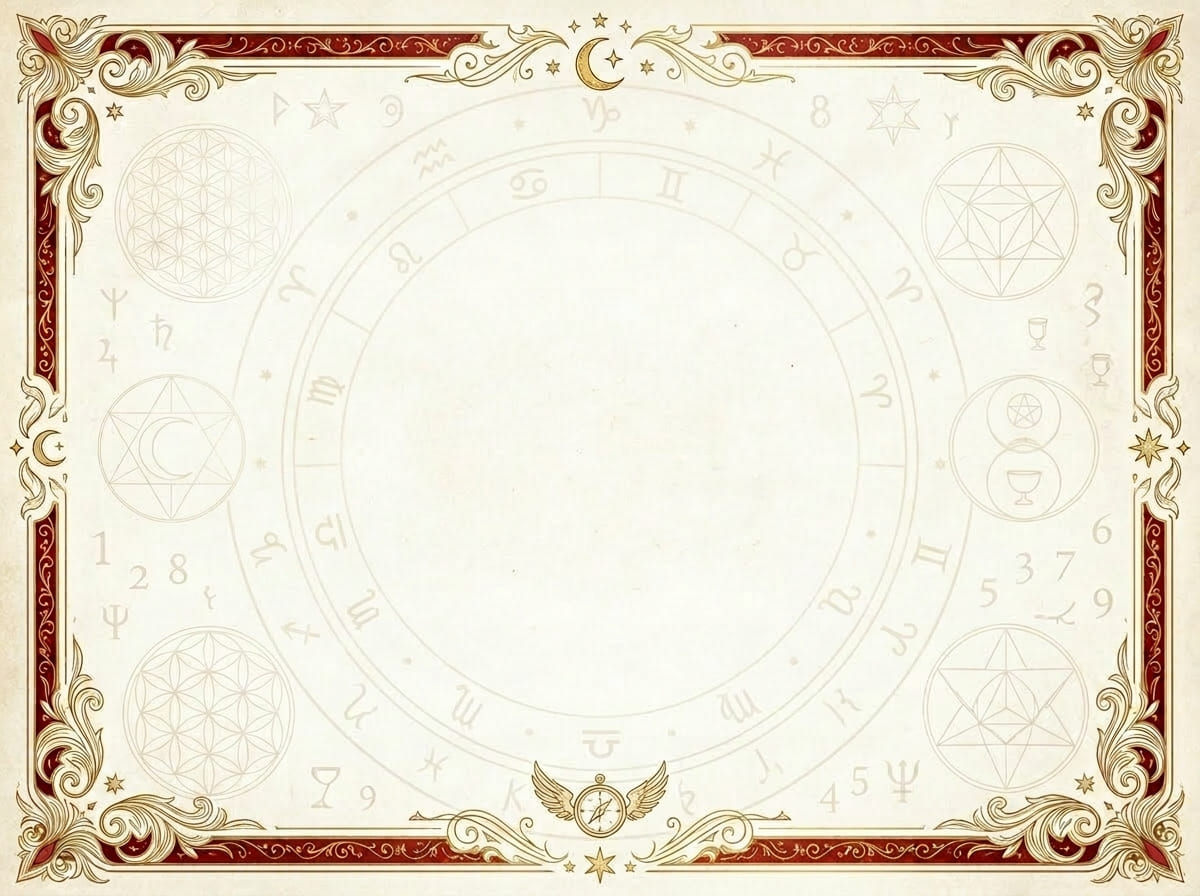
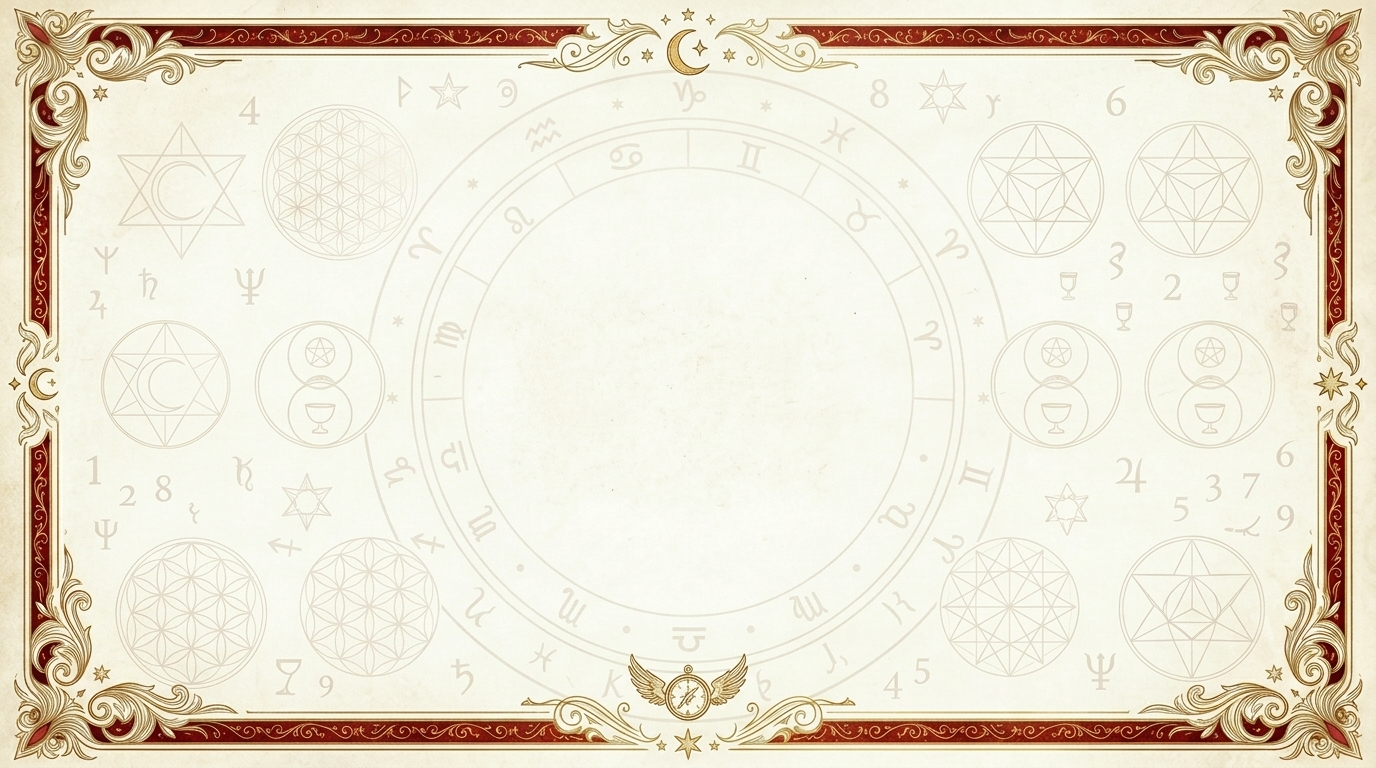
feat(cabinet): update default certificate background image and adjust spacing and labels

diff --git a/src/components/CertificateModal.tsx b/src/components/CertificateModal.tsx
@@ -208,7 +208,7 @@ export function CertificateModal({
             </svg>
           </div>
           <p className={styles.schoolName}>
-            Международная Школа Духовного Развития и Нумерологии
+            Школа Духовного развития Ольги Хавич
           </p>
         </div>
 
@@ -241,30 +241,7 @@ export function CertificateModal({
           </div>
 
           <div className={styles.footerRight}>
-            <span className={styles.infoLabel}>Эксперт</span>
-            <div className={styles.signatureContainer}>
-              {/* Векторная подпись Ольги Хавич */}
-              <svg width="150" height="60" viewBox="0 0 150 60" className={styles.signatureImage}>
-                <path
-                  d="M 10 40 C 30 10, 40 10, 50 30 C 60 50, 70 50, 80 20 C 90 5, 100 5, 110 35 C 115 45, 120 45, 130 30 C 135 20, 140 20, 145 35 M 30 35 L 120 35"
-                  fill="none"
-                  stroke="#1c2d5a"
-                  strokeWidth="2.5"
-                  strokeLinecap="round"
-                  strokeLinejoin="round"
-                  opacity="0.85"
-                />
-                <path
-                  d="M 40 20 C 50 0, 70 0, 60 30 C 50 50, 90 50, 100 15"
-                  fill="none"
-                  stroke="#d4af37"
-                  strokeWidth="1.5"
-                  strokeLinecap="round"
-                  opacity="0.75"
-                />
-              </svg>
-              <div className={styles.signatureLine} />
-            </div>
+            <span className={styles.infoLabel}>Преподаватель</span>
             <span className={styles.infoValue}>Ольга Хавич</span>
           </div>
         </div>

diff --git a/src/components/CertificateModal.module.css b/src/components/CertificateModal.module.css
@@ -283,7 +283,7 @@
   justify-content: space-between;
   align-items: flex-end;
   margin-bottom: 15px;
-  padding: 0 20px;
+  padding: 20px 95px;
   box-sizing: border-box;
 }
 
@@ -315,15 +315,6 @@
   font-size: 14px;
   font-weight: 600;
   color: #333;
-}
-
-.signatureContainer {
-  position: relative;
-  height: 40px;
-  width: 180px;
-  display: flex;
-  align-items: flex-end;
-  justify-content: flex-end;
 }
 
 .signatureImage {